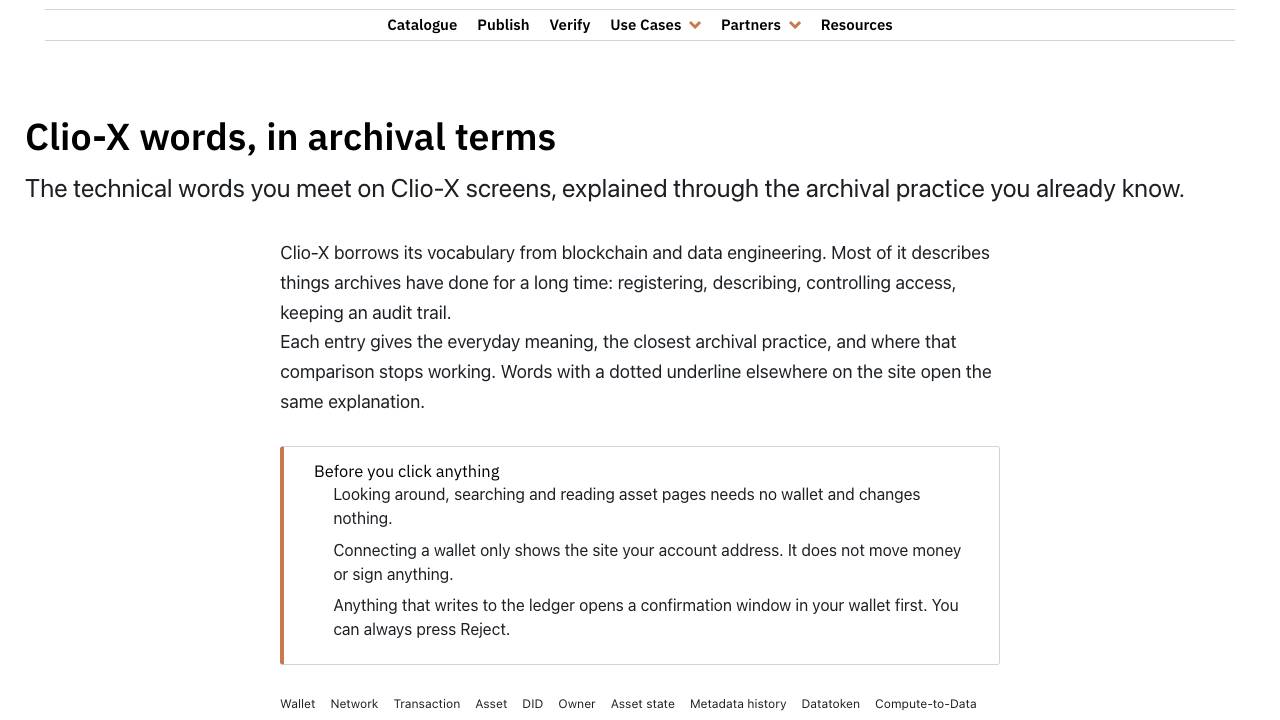
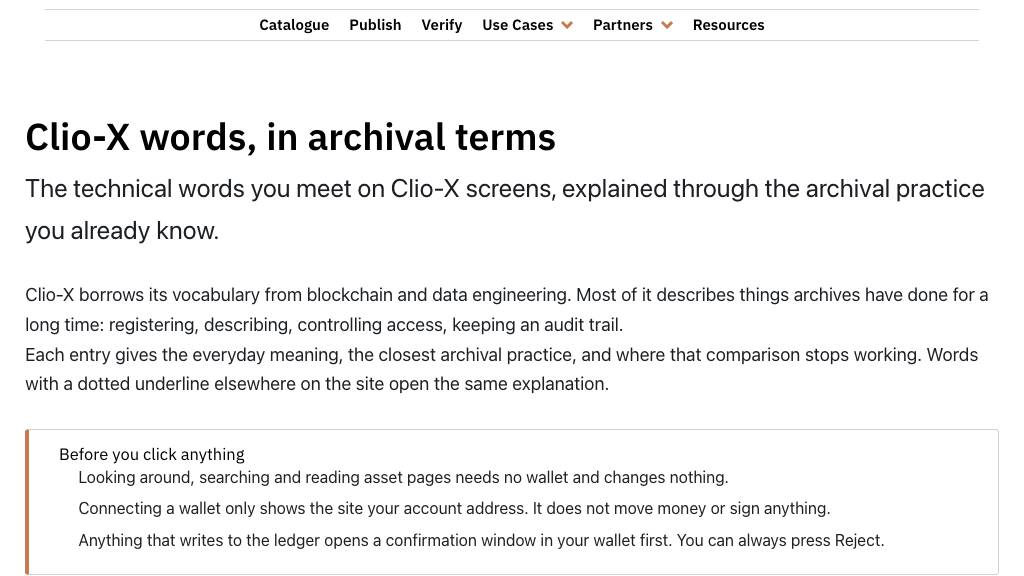
Prototype pages: card grid, common width and breadcrumbs
- /experiment lists the prototypes as cards, three a row on a wide
  screen, with larger thumbnails (taken at 1024 px).
- The prototype pages no longer narrow and centre their body, so the
  body lines up with the page title and uses the portal's width.
- Every /experiment page shows Home > Prototypes > <page>.

diff --git a/src/experiment/shell/Breadcrumb/index.tsx b/src/experiment/shell/Breadcrumb/index.tsx
@@ -1,0 +1,49 @@
+import { ReactElement } from 'react'
+import Link from 'next/link'
+import { useRouter } from 'next/router'
+import { useTranslation } from 'react-i18next'
+import styles from './index.module.css'
+
+// [prototype] Breadcrumbs on the prototype pages (2026-11-25):
+// Home › Prototypes › <page>. Rendered by the shared Page for every route;
+// it shows nothing outside /experiment.
+
+const LABELS = {
+  home: ['Home', 'ホーム'],
+  prototypes: ['Prototypes', '試作'],
+  nav: ['Breadcrumb', 'パンくずリスト']
+}
+
+export default function ExperimentBreadcrumb({
+  title
+}: {
+  title?: string
+}): ReactElement | null {
+  const router = useRouter()
+  const { i18n } = useTranslation()
+  if (!router?.route?.startsWith('/experiment')) return null
+  const i = (i18n?.language || 'en').startsWith('ja') ? 1 : 0
+  const isIndex = router.route === '/experiment'
+
+  return (
+    <nav aria-label={LABELS.nav[i]} className={styles.breadcrumb}>
+      <ol>
+        <li>
+          <Link href="/">{LABELS.home[i]}</Link>
+        </li>
+        <li>
+          {isIndex ? (
+            <span aria-current="page">{LABELS.prototypes[i]}</span>
+          ) : (
+            <Link href="/experiment">{LABELS.prototypes[i]}</Link>
+          )}
+        </li>
+        {!isIndex && title && (
+          <li>
+            <span aria-current="page">{title}</span>
+          </li>
+        )}
+      </ol>
+    </nav>
+  )
+}

diff --git a/scripts/capture-experiment-thumbnails.js b/scripts/capture-experiment-thumbnails.js
@@ -1,7 +1,7 @@
 #!/usr/bin/env node
 /* eslint-disable no-console */
 // Takes the thumbnails shown on /experiment (src/experiment/shell/IndexPage.tsx).
-// One screenshot per prototype, below the site header, saved as
+// One screenshot per prototype (1024 px wide, below the site header), saved as
 // public/images/experiment/<slug>.jpg.
 //
 //   node scripts/capture-experiment-thumbnails.js [base-url]
@@ -43,10 +43,10 @@ const ONLY = process.env.ONLY ? process.env.ONLY.split(',') : null
   for (const [slug, p] of Object.entries(SHOTS)) {
     if (ONLY && !ONLY.includes(slug)) continue
     const page = await browser.newPage({
-      viewport: { width: 1280, height: 900 },
+      viewport: { width: 1024, height: 900 },
       locale: 'en'
     })
-    await page.goto(BASE + p, { waitUntil: 'networkidle', timeout: 120000 })
+    await page.goto(BASE + p, { waitUntil: 'load', timeout: 120000 })
     // the app shell renders client-side; wait for the page's own heading
     await page.waitForSelector('main h1, main h2', { timeout: 60000 })
     await page.waitForTimeout(3000)
@@ -67,7 +67,7 @@ const ONLY = process.env.ONLY ? process.env.ONLY.split(',') : null
       type: 'jpeg',
       quality: 70,
       fullPage: true,
-      clip: { x: 0, y: top, width: 1280, height: 720 }
+      clip: { x: 0, y: top, width: 1024, height: 576 }
     })
     console.log(`${slug}: ok`)
     await page.close()

diff --git a/src/experiment/shell/IndexPage.module.css b/src/experiment/shell/IndexPage.module.css
@@ -1,7 +1,13 @@
 .list {
   display: grid;
+  /* as wide as the other pages; three cards a row on a wide screen */
+  grid-template-columns: repeat(auto-fill, minmax(24rem, 1fr));
   gap: var(--spacer);
-  max-width: 60rem;
+}
+
+/* the settings box spans both columns */
+.list > .settings {
+  grid-column: 1 / -1;
 }
 
 .item {
@@ -77,22 +83,18 @@
 }
 
 .withThumb {
-  display: grid;
-  grid-template-columns: 16rem 1fr;
-  gap: calc(var(--spacer) / 1.5);
-  align-items: start;
+  display: flex;
+  flex-direction: column;
+  gap: calc(var(--spacer) / 2);
 }
 
 .thumb img {
   display: block;
   width: 100%;
   height: auto;
+  aspect-ratio: 16 / 9;
+  object-fit: cover;
+  object-position: top;
   border: 1px solid var(--border-color);
   border-radius: calc(var(--border-radius) / 2);
-}
-
-@media (max-width: 40rem) {
-  .withThumb {
-    grid-template-columns: 1fr;
-  }
 }

diff --git a/src/experiment/shell/IndexPage.tsx b/src/experiment/shell/IndexPage.tsx
@@ -243,8 +243,8 @@ export default function PageExperimentIndex(): ReactElement {
                 src={`/images/experiment/${thumbOf(it.href)}.jpg`}
                 alt=""
                 loading="lazy"
-                width={1280}
-                height={720}
+                width={1024}
+                height={576}
               />
             </Link>
             <div>
@@ -273,8 +273,8 @@ export default function PageExperimentIndex(): ReactElement {
               src="/images/experiment/asset-demo.jpg"
               alt=""
               loading="lazy"
-              width={1280}
-              height={720}
+              width={1024}
+              height={576}
             />
           </Link>
           <div>

diff --git a/src/components/@shared/Page/index.tsx b/src/components/@shared/Page/index.tsx
@@ -6,6 +6,8 @@ import SearchBar from '@components/Header/SearchBar'
 import { useUserPreferences } from '@context/UserPreferences'
 import ExternalContentWarning from '../ExternalContentWarning'
 import { useTranslation } from 'react-i18next'
+// [prototype] breadcrumbs on /experiment pages
+import ExperimentBreadcrumb from '@experiment/shell/Breadcrumb'
 
 export interface PageProps {
   children: ReactNode
@@ -48,6 +50,7 @@ export default function Page({
         />
       )}
       {isAssetPage && !allowExternalContent && <ExternalContentWarning />}
+      <ExperimentBreadcrumb title={title} />
       {/* Display PageHeader when not hidden */}
       {!shouldHidePageHeader && title && (
         <PageHeader

diff --git a/src/experiment/shell/Breadcrumb/index.module.css b/src/experiment/shell/Breadcrumb/index.module.css
@@ -1,0 +1,26 @@
+.breadcrumb {
+  font-size: var(--font-size-small);
+  margin: calc(var(--spacer) / 2) 0 0;
+}
+
+.breadcrumb ol {
+  display: flex;
+  flex-wrap: wrap;
+  list-style: none;
+  margin: 0;
+  padding: 0;
+}
+
+.breadcrumb li {
+  margin: 0;
+}
+
+.breadcrumb li + li::before {
+  content: '›';
+  margin: 0 calc(var(--spacer) / 4);
+  color: var(--color-secondary);
+}
+
+.breadcrumb [aria-current] {
+  color: var(--color-secondary);
+}

diff --git a/src/experiment/archivist/Glossary/index.module.css b/src/experiment/archivist/Glossary/index.module.css
@@ -1,6 +1,6 @@
 .glossary {
-  max-width: 48rem;
-  margin: 0 auto;
+  /* same width and left edge as the portal pages and the page title */
+  width: 100%;
 }
 
 .intro p {

diff --git a/src/experiment/carbon-choice/index.module.css b/src/experiment/carbon-choice/index.module.css
@@ -1,6 +1,6 @@
 .page {
-  max-width: 60rem;
-  margin: 0 auto;
+  /* same width and left edge as the portal pages and the page title */
+  width: 100%;
 }
 
 .intro p {

diff --git a/src/experiment/carbon-report/index.module.css b/src/experiment/carbon-report/index.module.css
@@ -1,6 +1,6 @@
 .page {
-  max-width: 60rem;
-  margin: 0 auto;
+  /* same width and left edge as the portal pages and the page title */
+  width: 100%;
 }
 
 .intro p {

diff --git a/src/experiment/sample-collection/index.module.css b/src/experiment/sample-collection/index.module.css
@@ -1,6 +1,6 @@
 .page {
-  max-width: 64rem;
-  margin: 0 auto;
+  /* same width and left edge as the portal pages and the page title */
+  width: 100%;
 }
 
 .intro p {

diff --git a/src/experiment/two-condition/index.module.css b/src/experiment/two-condition/index.module.css
@@ -1,6 +1,6 @@
 .page {
-  max-width: 60rem;
-  margin: 0 auto;
+  /* same width and left edge as the portal pages and the page title */
+  width: 100%;
 }
 
 .panel {

diff --git a/src/experiment/finding-aid/index.module.css b/src/experiment/finding-aid/index.module.css
@@ -1,5 +1,6 @@
 .findingAid {
-  max-width: 56rem;
+  /* same width and left edge as the portal pages and the page title */
+  width: 100%;
 }
 
 .toolbar {
